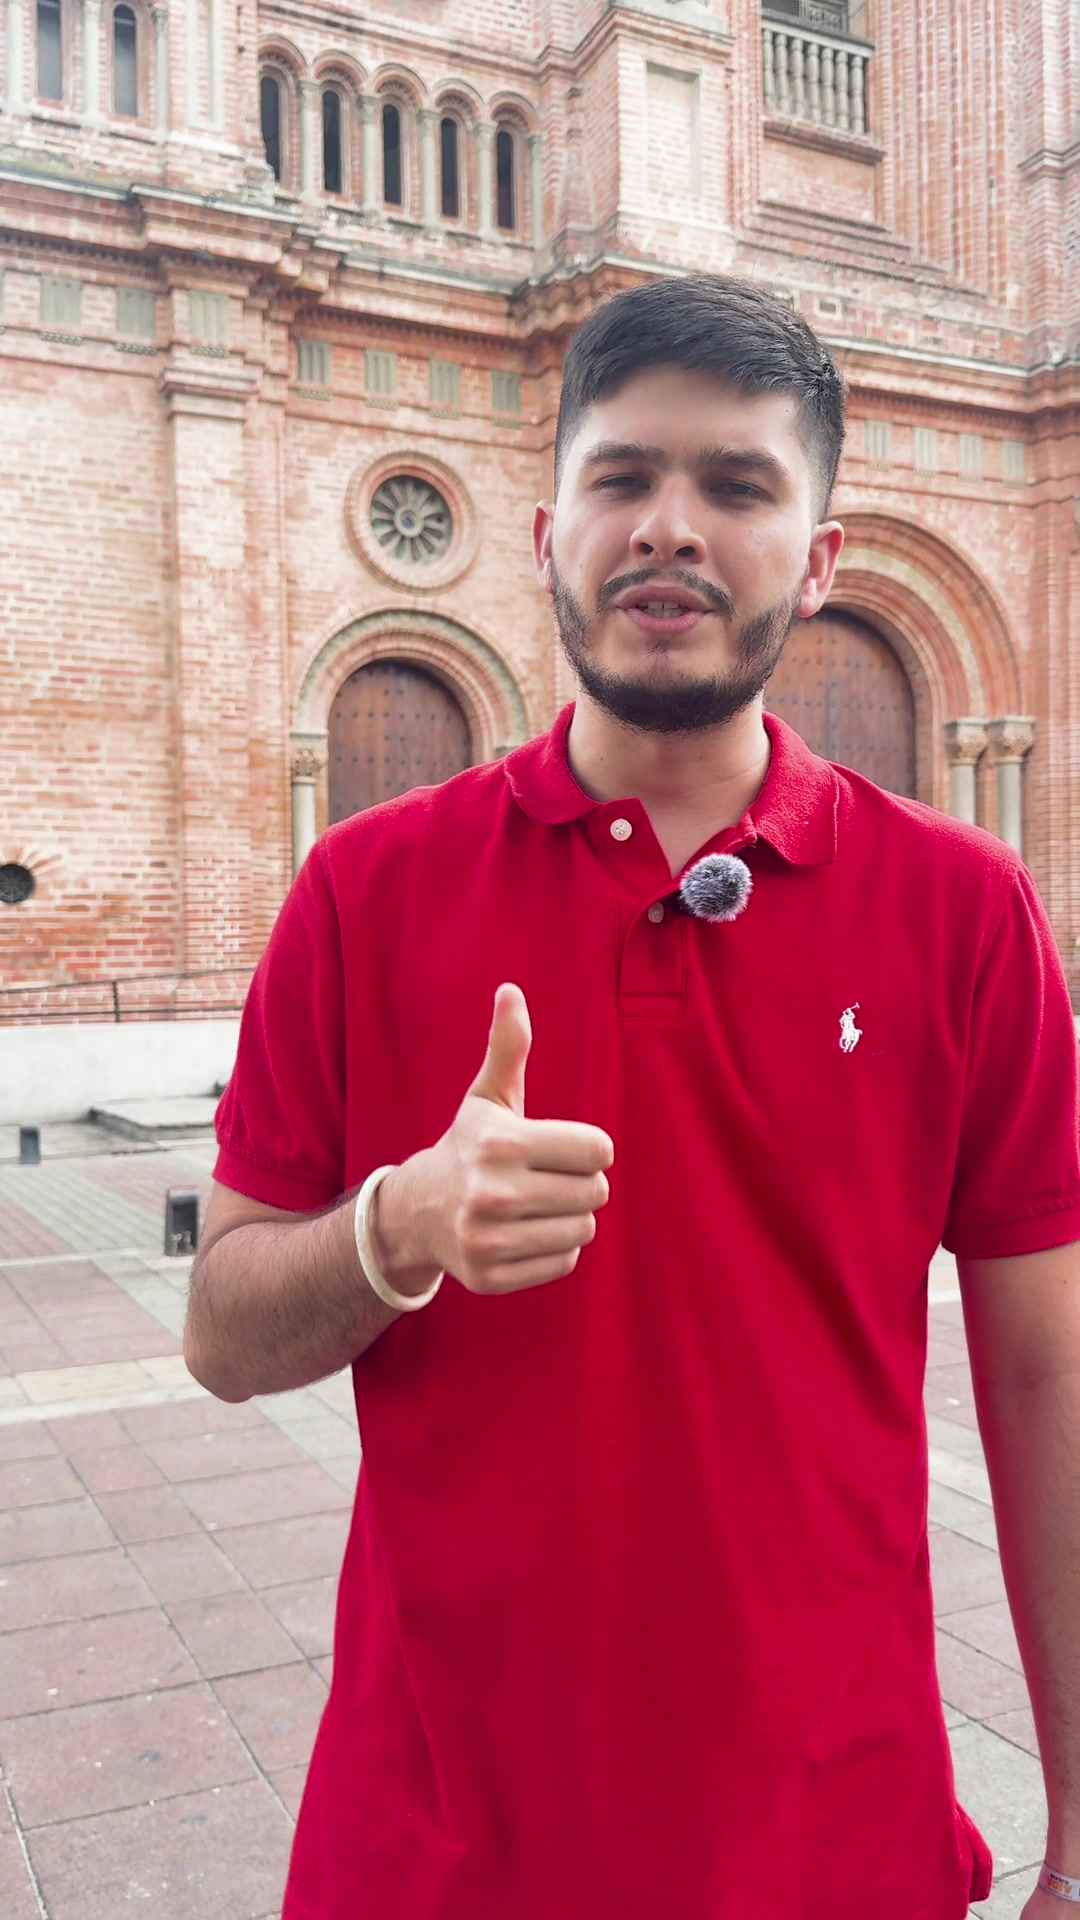
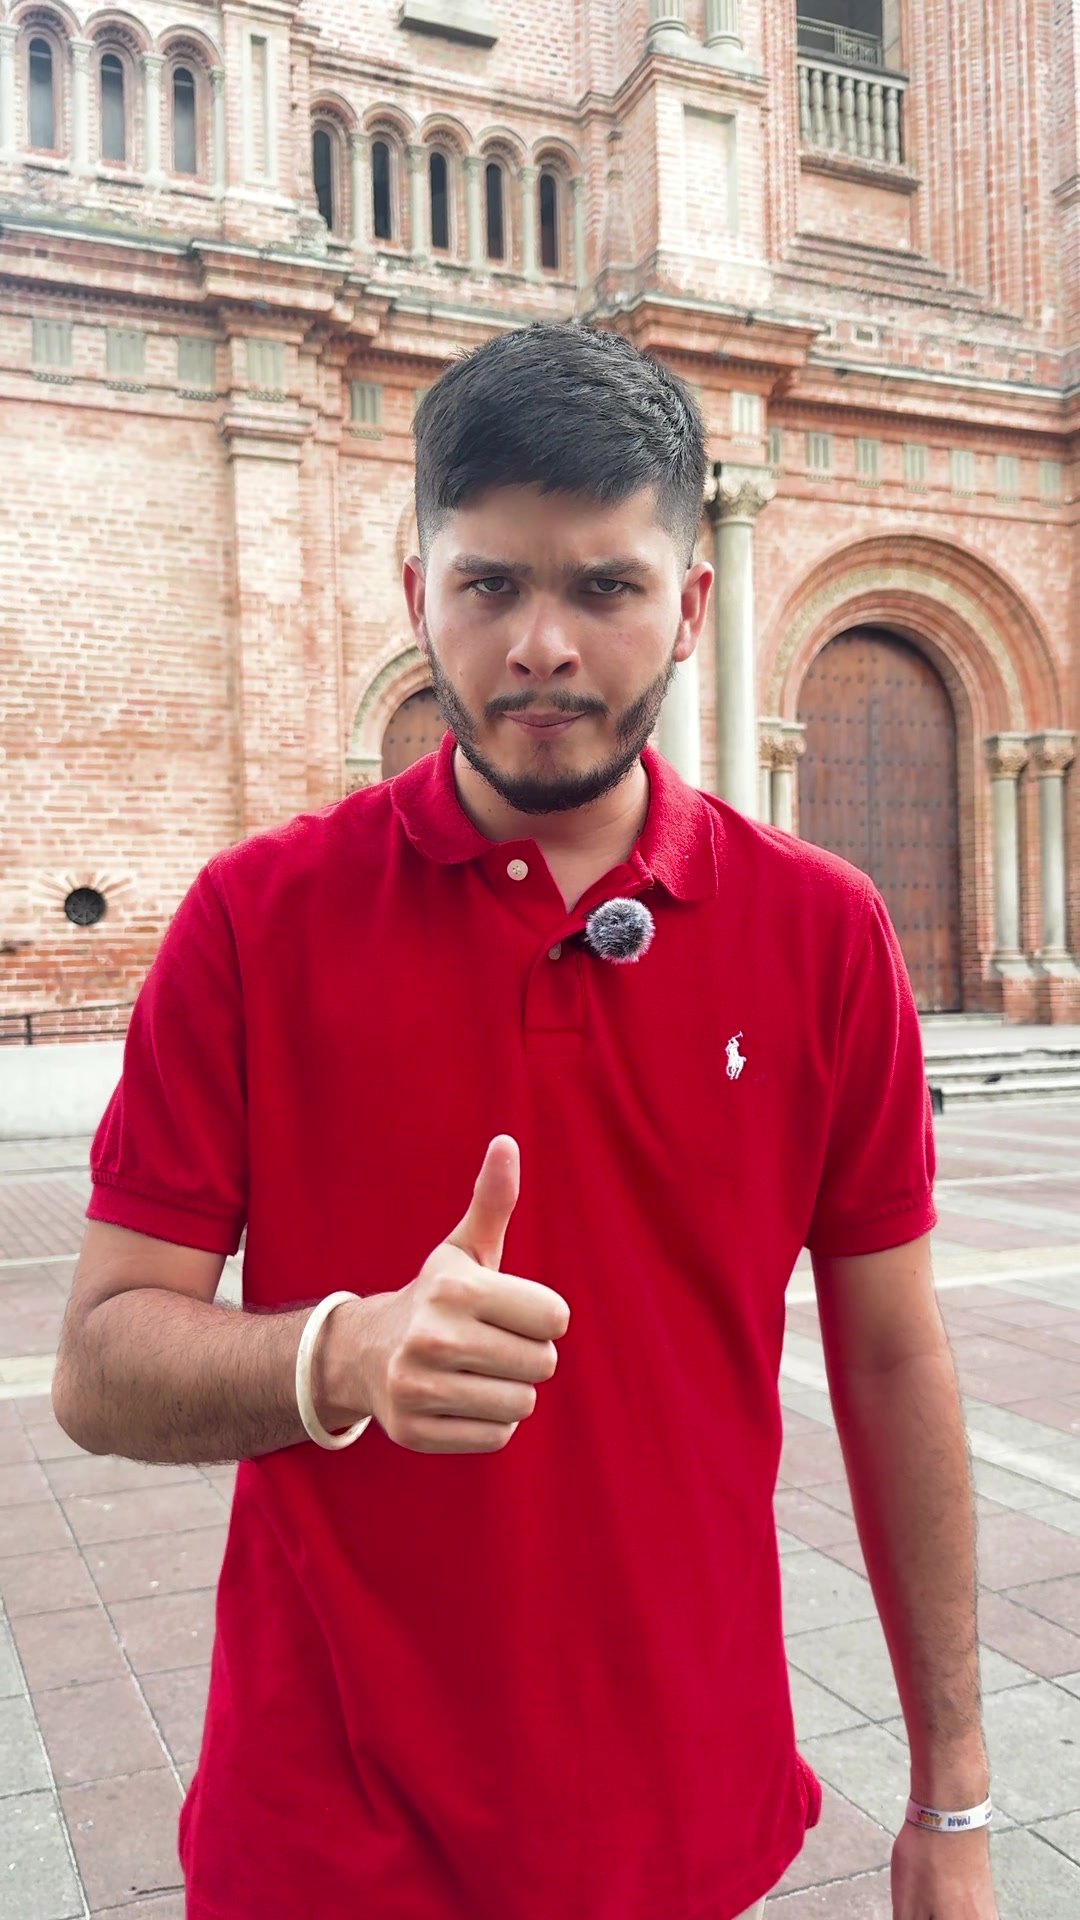
Portada de la petición: foto con mirada directa e intensa
El cuadro anterior salía con los ojos cerrados. Ahora es IMG_1724 a los 17.05 s:
ojos abiertos, boca cerrada, mirada firme a cámara frente a la catedral, con un
poco más de contraste y saturación.

Claude-Session: https://claude.ai/code/session_01P6ScJN2vTZvxzeGsdYGPdQ

diff --git a/src/campaign/CoverPeticion.tsx b/src/campaign/CoverPeticion.tsx
@@ -4,7 +4,7 @@ import { Anton, Bebas, Montserrat } from "./font";
 
 // Portada del video de la petición (1080x1920), con el mismo diseño de la del video de campaña
 // (Cover.tsx). El texto queda dentro del recorte 4:5 que Instagram muestra en la cuadrícula del
-// perfil (y 285–1635). Fondo: IMG_1724 a los 12.6 s, frente a la catedral, expresión seria.
+// perfil (y 285–1635). Fondo: IMG_1724 a los 17.05 s, frente a la catedral, mirada directa e intensa (elegida por el cliente: ojos abiertos, imponente).
 // Gancho: el contraste entre lo que pidió (cifras de seguridad) y lo que recibió (un radicado).
 const YELLOW = "#FFE600";
 const RED = "#E30613";
